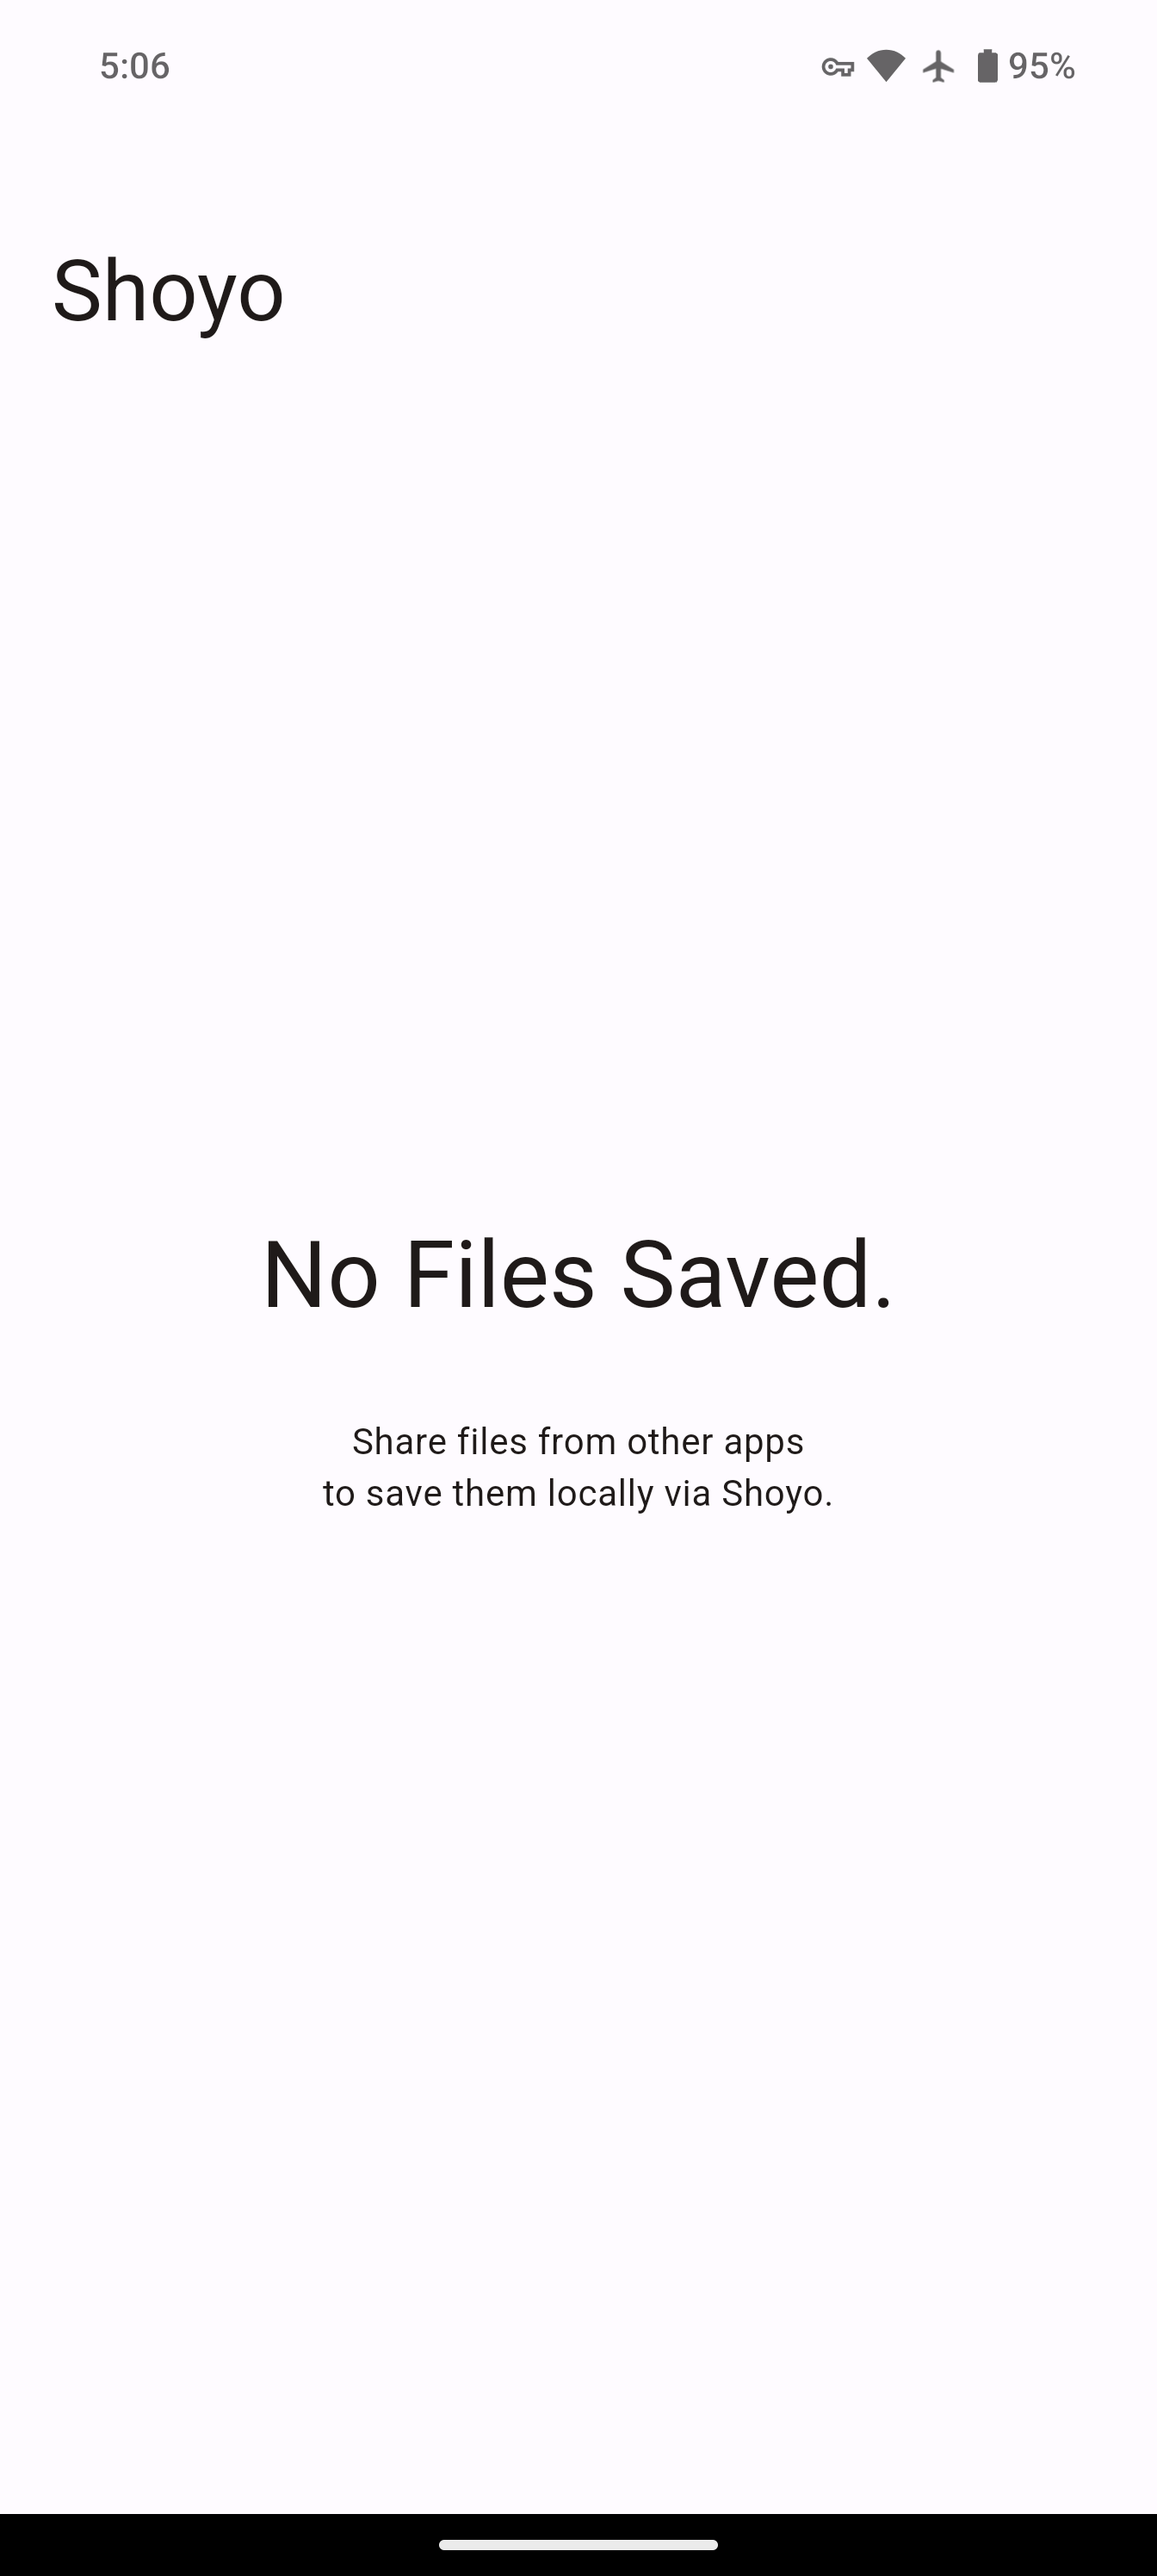
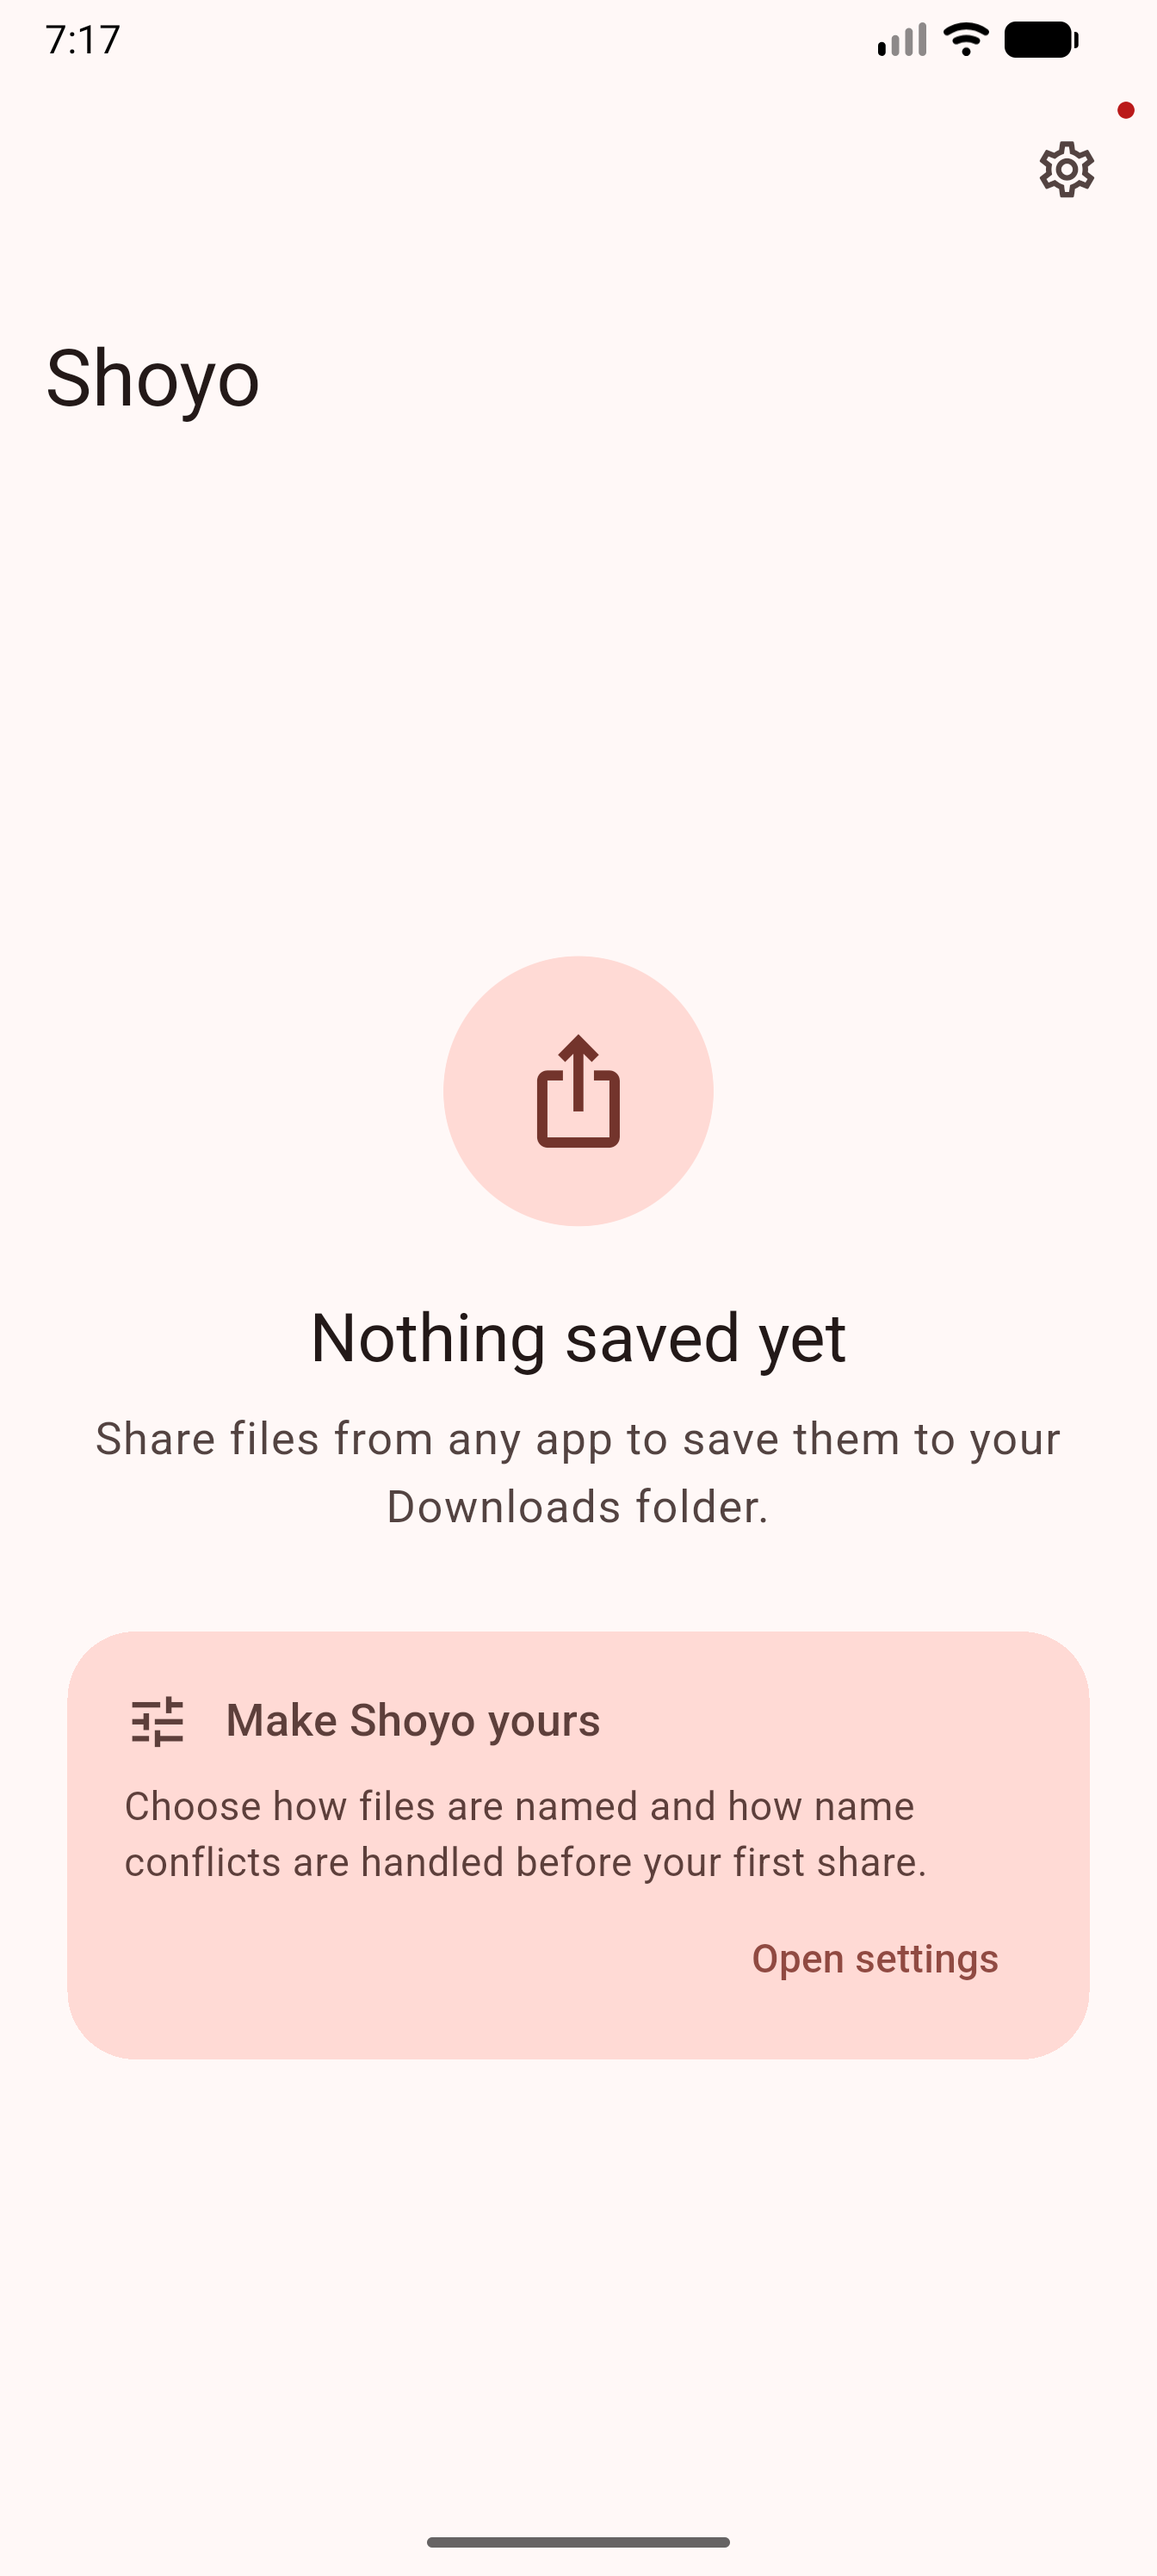
Fix reading shared files from external storage, update screenshots, v1.1.1
- Read shared files through the content resolver when the plugin returns an
  unreadable external storage path (sharing from the Files app)
- Refresh screenshots with the new UI (release build, no debug banner)
- Bump version to 1.1.1+6

diff --git a/android/app/src/main/kotlin/dev/imranr/shoyo/MediaStoreSaver.kt b/android/app/src/main/kotlin/dev/imranr/shoyo/MediaStoreSaver.kt
@@ -78,9 +78,6 @@ object MediaStoreSaver {
         allowProviderRename: Boolean,
     ): SaveResult {
         val source = File(sourcePath)
-        if (!source.exists()) {
-            throw SaveException("SOURCE_MISSING", "The shared file no longer exists")
-        }
         val resolver = context.contentResolver
         val mimeType = MimeTypeMap.getSingleton()
             .getMimeTypeFromExtension(source.extension.lowercase())
@@ -98,7 +95,7 @@ object MediaStoreSaver {
             val output = resolver.openOutputStream(uri)
                 ?: throw SaveException("IO_ERROR", "Could not open the destination file")
             output.use { out ->
-                FileInputStream(source).use { input -> input.copyTo(out) }
+                openSource(context, sourcePath).use { input -> input.copyTo(out) }
             }
             resolver.update(
                 uri,
@@ -116,6 +113,45 @@ object MediaStoreSaver {
             throw SaveException("CONFLICT", "A file with this name already exists")
         }
         return SaveResult(actualName)
+    }
+
+    /// Reads a shared file. [sourcePath] points either into the app cache or,
+    /// when the sharing app provided an external storage document, into shared
+    /// storage which the app cannot open directly. In that case the document
+    /// URI is reconstructed and read through the granted share permission.
+    private fun openSource(context: Context, sourcePath: String): java.io.InputStream {
+        try {
+            return FileInputStream(sourcePath)
+        } catch (e: java.io.IOException) {
+            // The app cannot read the path directly; try the content resolver.
+        }
+        val uri = externalStorageDocumentUri(context, sourcePath)
+            ?: throw SaveException("SOURCE_MISSING", "The shared file no longer exists")
+        return context.contentResolver.openInputStream(uri)
+            ?: throw SaveException("SOURCE_MISSING", "The shared file no longer exists")
+    }
+
+    private fun externalStorageDocumentUri(context: Context, path: String): android.net.Uri? {
+        @Suppress("DEPRECATION")
+        val primaryRoot = Environment.getExternalStorageDirectory().path
+        val candidates = mutableListOf(primaryRoot to "primary")
+        context.getExternalFilesDirs(null).forEach { dir ->
+            val dirPath = dir?.path ?: return@forEach
+            val root = dirPath.substringBefore("/Android/")
+            if (root != primaryRoot && root.contains('/')) {
+                candidates.add(root to root.substringAfterLast('/'))
+            }
+        }
+        for ((root, volume) in candidates) {
+            if (path == root || path.startsWith("$root/")) {
+                val docId = "$volume:${path.removePrefix(root).trimStart('/')}"
+                return android.provider.DocumentsContract.buildDocumentUri(
+                    "com.android.externalstorage.documents",
+                    docId,
+                )
+            }
+        }
+        return null
     }
 
     private fun actualDisplayName(context: Context, uri: android.net.Uri): String? {

diff --git a/lib/app.dart b/lib/app.dart
@@ -5,7 +5,7 @@ import 'package:shoyo/services/settings_controller.dart';
 import 'package:shoyo/theme/app_theme.dart';
 import 'package:shoyo/theme/dynamic_color_bridge.dart';
 
-const String kAppVersion = '1.1.0';
+const String kAppVersion = '1.1.1';
 
 class ShoyoApp extends StatelessWidget {
   const ShoyoApp({super.key, required this.settings});
